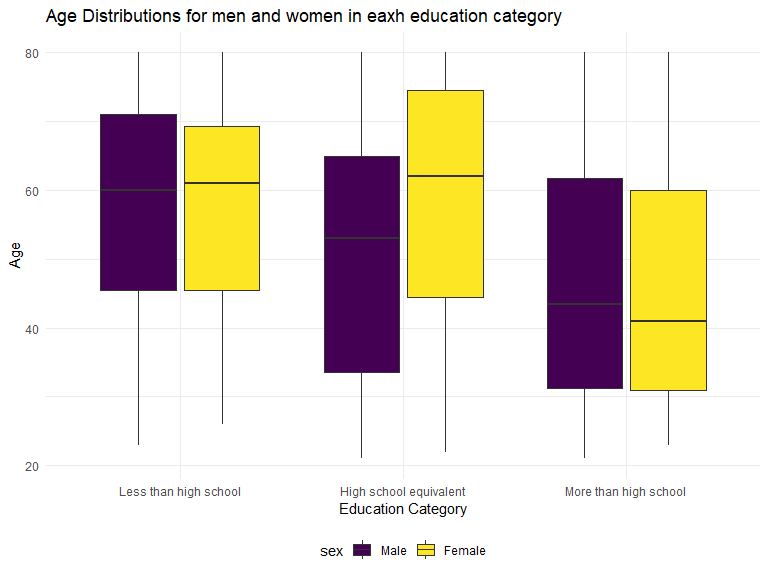
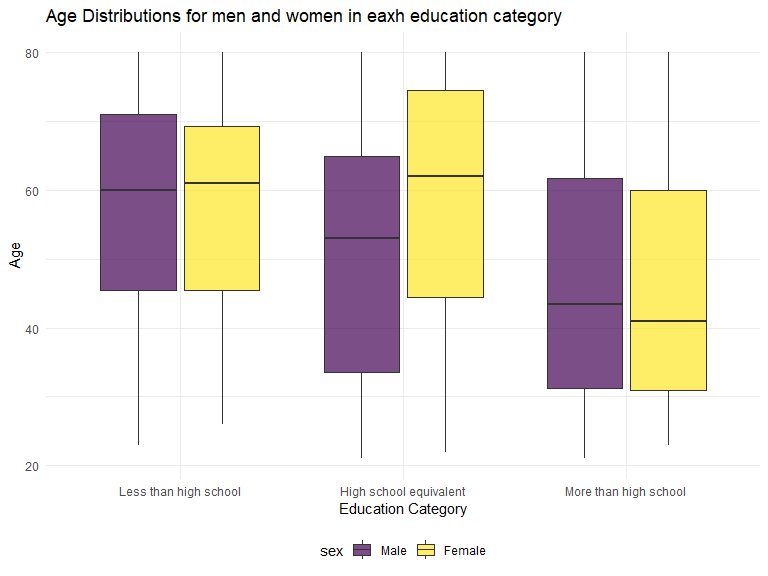
HW3 Final Version

diff --git a/p8105_hw3_yy3295.md b/p8105_hw3_yy3295.md
@@ -244,7 +244,7 @@ brfss_df |>
 
 <img src="p8105_hw3_yy3295_files/figure-gfm/unnamed-chunk-10-1.png" width="90%" />
 From the plot of 2006 and 2010 data values vs responses, we can learn
-that there is no significance difference of data value and responses
+that there is no significant difference of data value and responses
 between the year 2006 and year 2010. The poor group has the least data
 value and the very good group has the highest data value in both years.
 
@@ -303,7 +303,7 @@ nhanes_merge |>
   ggplot(aes(x = education,
              y = age,
              fill = sex)) +
-  geom_boxplot() +
+  geom_boxplot(alpha = 0.7) +
   labs(x = "Education Category",
        y = "Age",
        title = "Age Distributions for men and women in eaxh education category",)
@@ -336,8 +336,8 @@ nhanes_merge_0 <- nhanes_merge |>
 ggplot(nhanes_merge_0, aes(x = age,
                            y = ta,
                            color = sex)) +
-  geom_point() +
-  geom_smooth(method = lm) +
+  geom_point(alpha = 0.5) +
+  geom_smooth(method = lm, alpha = 0.3) +
   facet_grid(~education) +
   labs(x = "age",
        y = "total_activity",
@@ -371,7 +371,7 @@ nhanes_merge_1 |>
              y = activity,
              color = sex)) +
   geom_line(alpha = 0.5) +
-  geom_smooth() +
+  geom_smooth(alpha = 0.5) +
   facet_wrap(~education) +
   labs(x = "Min",
        y = "Activity",
